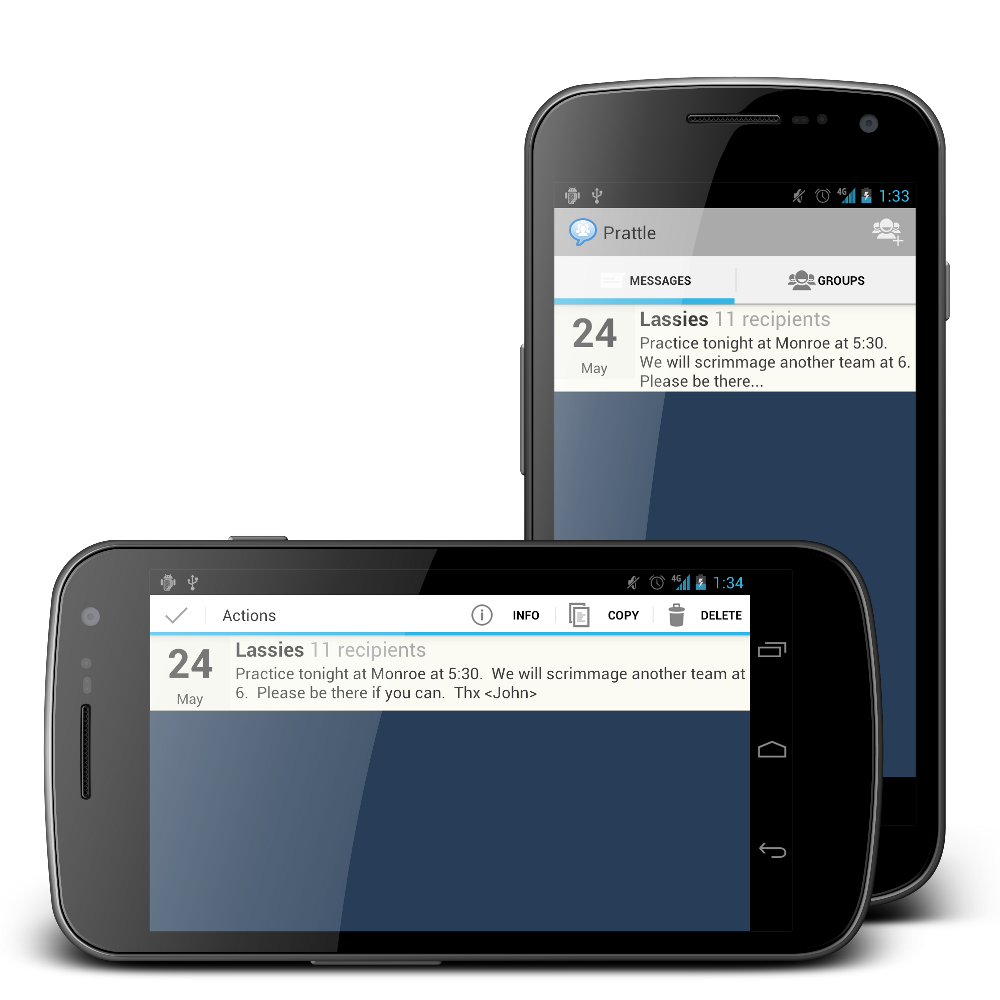
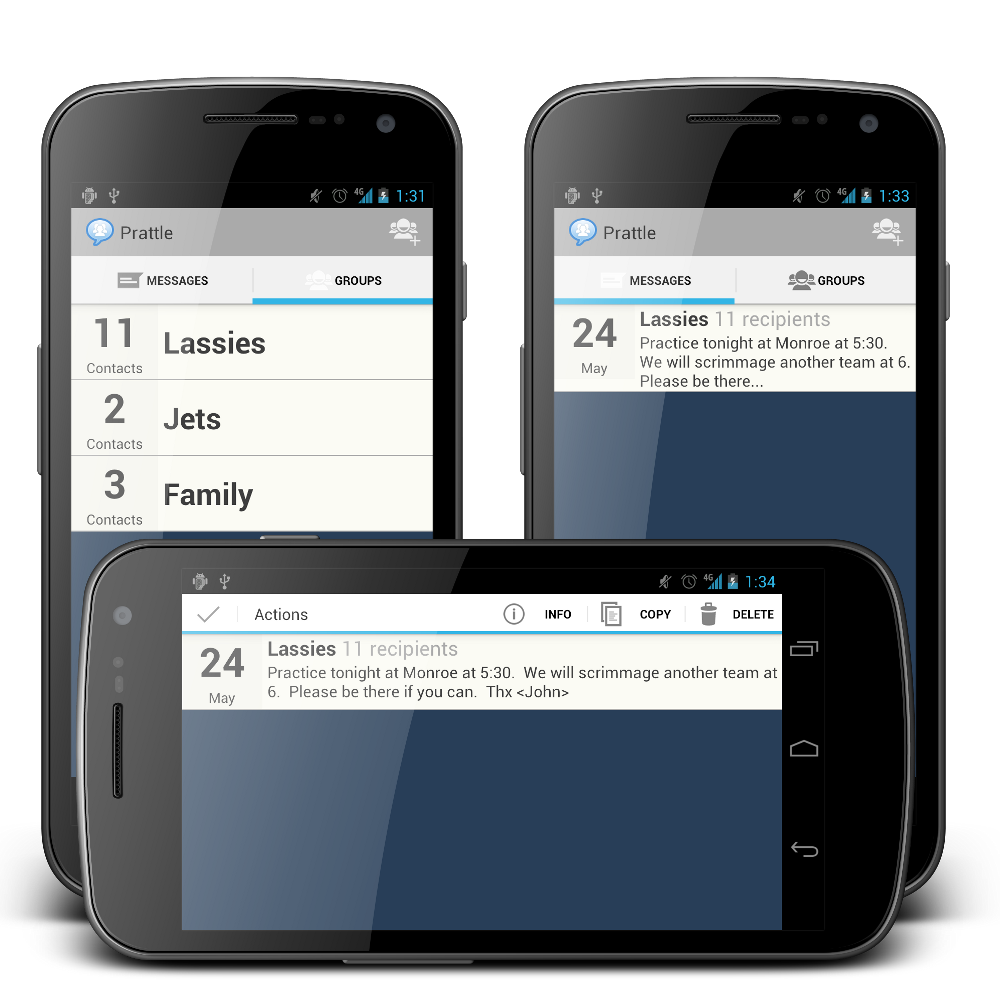
Update screenshots and README

Changed region(s): [[0.0, 0.062, 0.806, 0.992], [0.775, 0.527, 0.93, 0.992], [0.155, 0.403, 0.217, 0.434]]

diff --git a/README.md b/README.md
@@ -8,13 +8,13 @@ SMS groups and message history are persisted in a SQLite database on the device.
 Currently, this app supports Android 4.0+
 
 Basic Features
-
+-----------------------
   * Browse device contacts (filtered to show only those with mobile phone numbers)
   * Organize contacts into groups 
   * Send SMS text messages to groups of contacts 
 
 Screenshot
-=======================
+-----------------------
 ![Showcase](https://github.com/jheerman/Prattle/raw/master/docs/screenshots/galaxy/device_marketing.png)
 
 John (info@jheerman.com)
